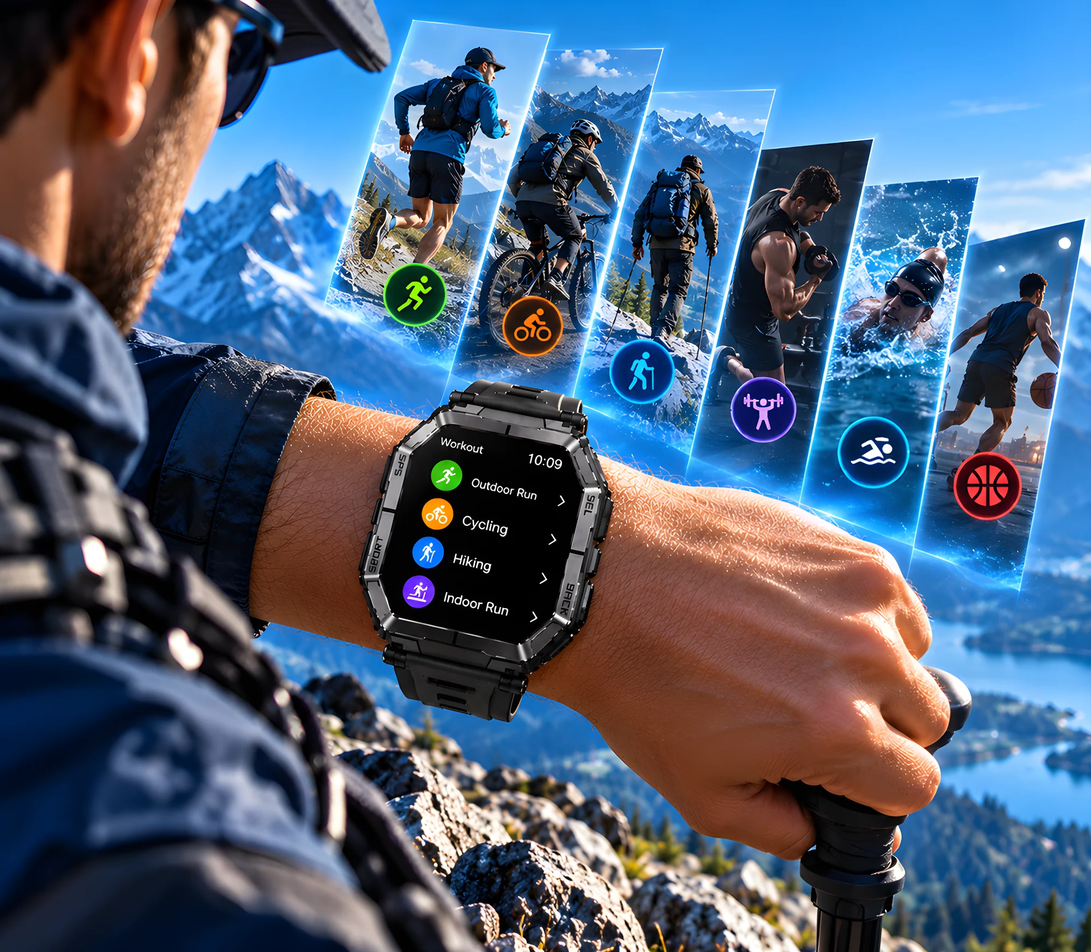
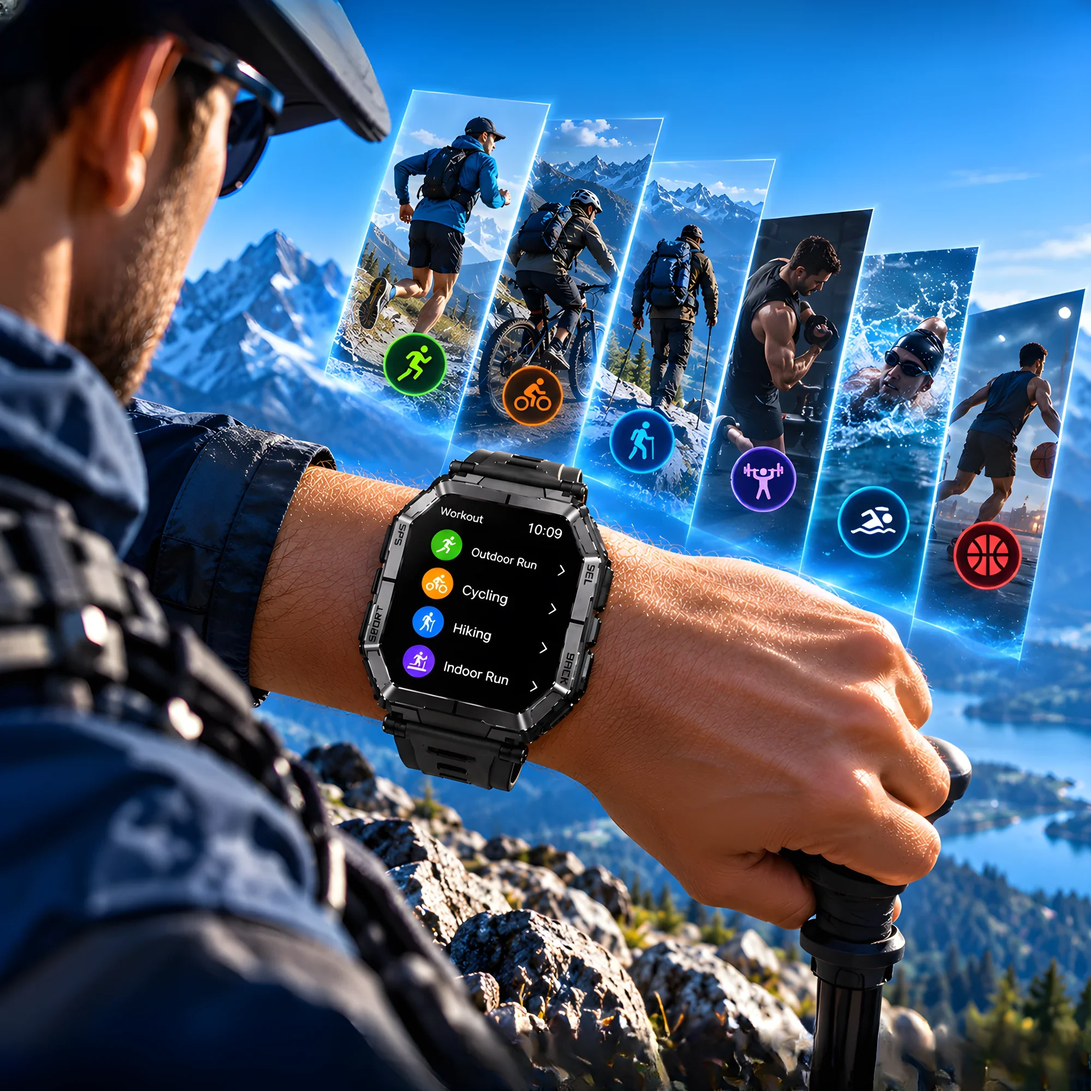
Showcase photo edge to edge on phones
The picture runs across the top of the card on phones. The sport photo
was extended top and bottom to square so both photos are the same size
and nothing jumps or leaves a gap.

Claude-Session: https://claude.ai/code/session_0131Ey9WtYzRJWk6AUwA1R6u

diff --git a/app/globals.css b/app/globals.css
@@ -2573,9 +2573,18 @@ button.thumb:focus-visible {
 @media (max-width: 860px) {
   .showcase-panel {
     grid-template-columns: 1fr;
+    overflow: hidden;
+    --pad: clamp(1.5rem, 4vw, 3rem);
   }
+  /* Phones: the photo runs edge to edge across the top of the card */
   .showcase-pics {
     order: -1;
+    place-items: start center;
+    margin: calc(-1 * var(--pad)) calc(-1 * var(--pad)) 0;
+  }
+  .showcase-pics img {
+    border-radius: 0;
+    box-shadow: none;
   }
   .showcase-tabs {
     flex-wrap: nowrap;

diff --git a/lib/products.ts b/lib/products.ts
@@ -271,7 +271,7 @@ export const products: Product[] = [
         src: "/products/matin-trekon-sport-fitness-modes.webp",
         alt: "MATIN Trekon rugged smartwatch on a hiker's wrist showing the workout menu with running, cycling, hiking and gym sport modes",
         width: 2000,
-        height: 1744,
+        height: 2000,
       },
       {
         src: "/products/matin-trekon-waterproof-rugged-smartwatch.webp",
